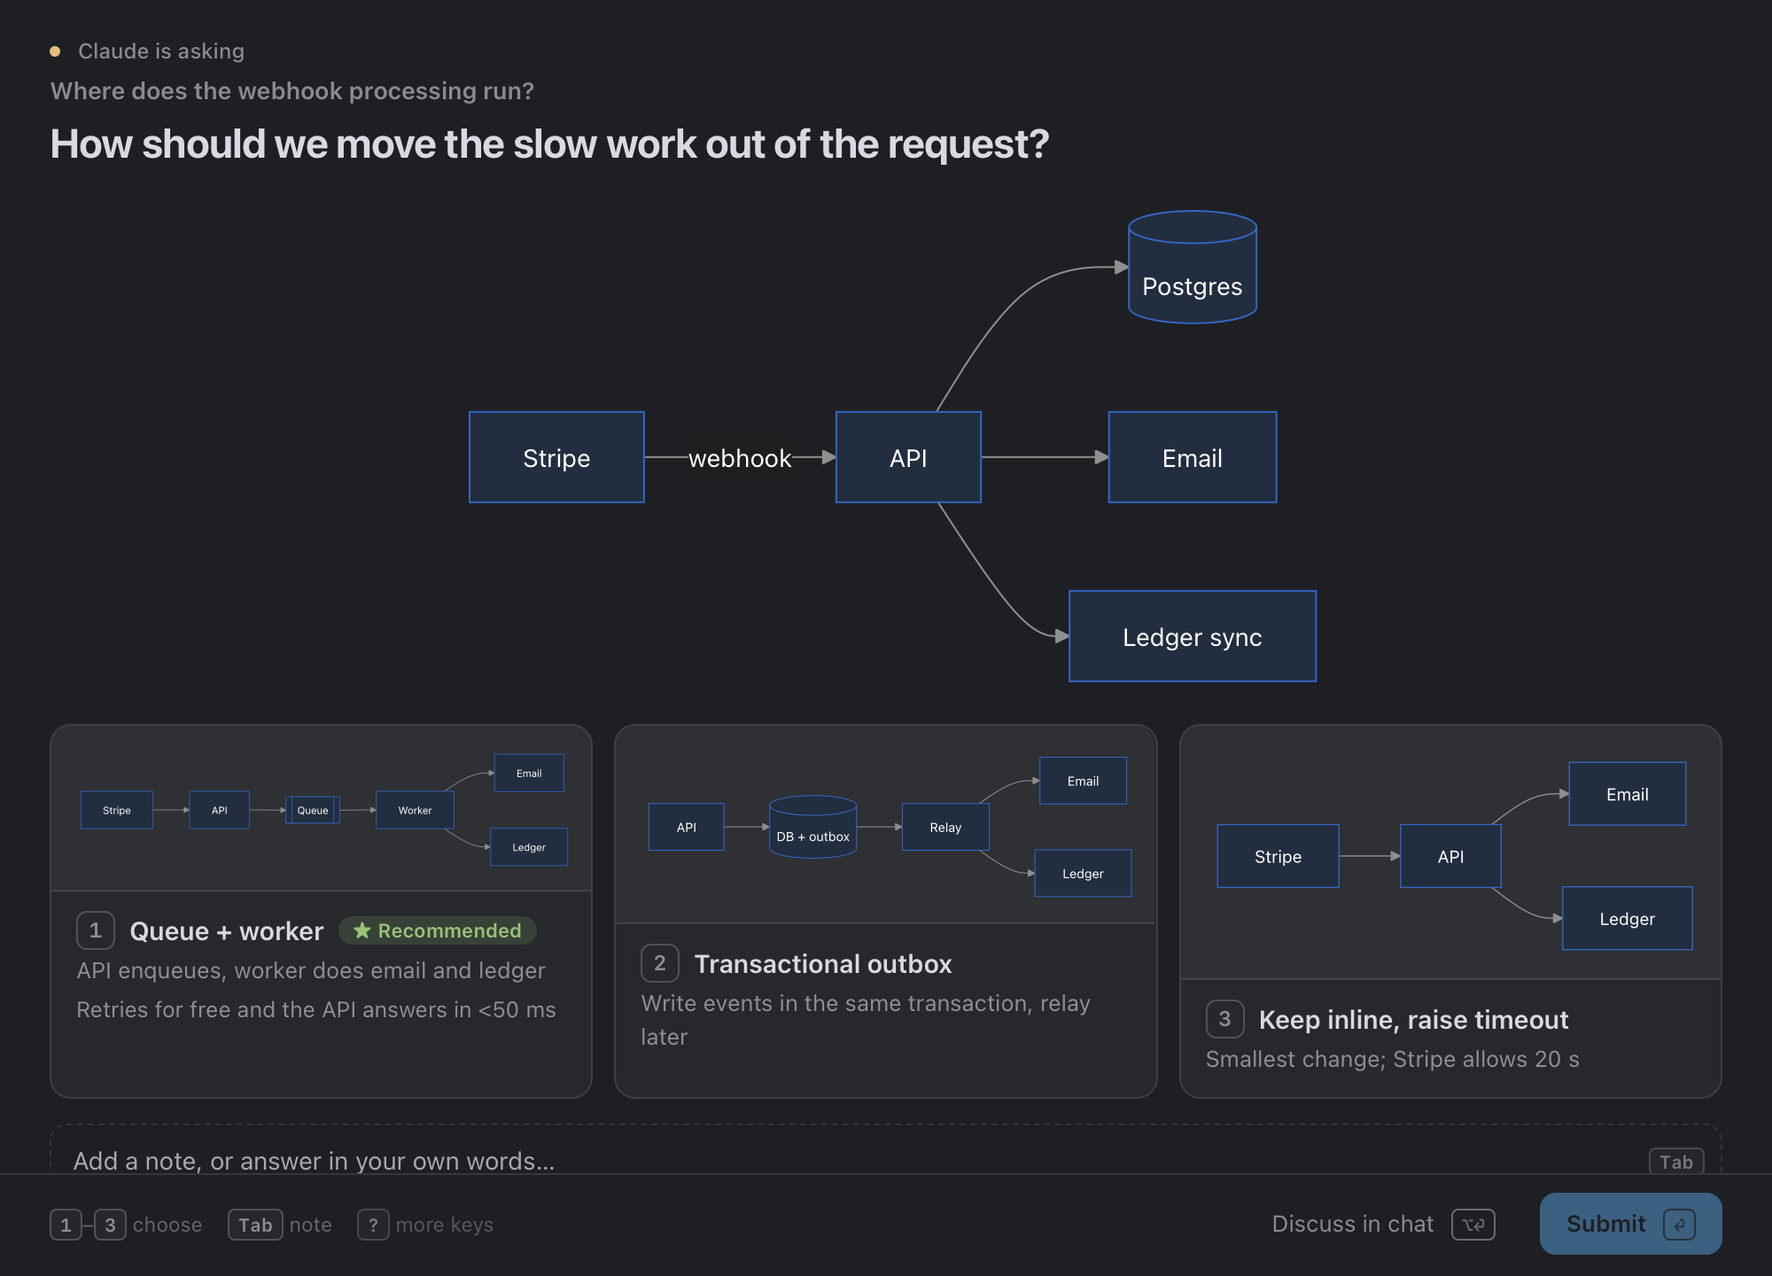
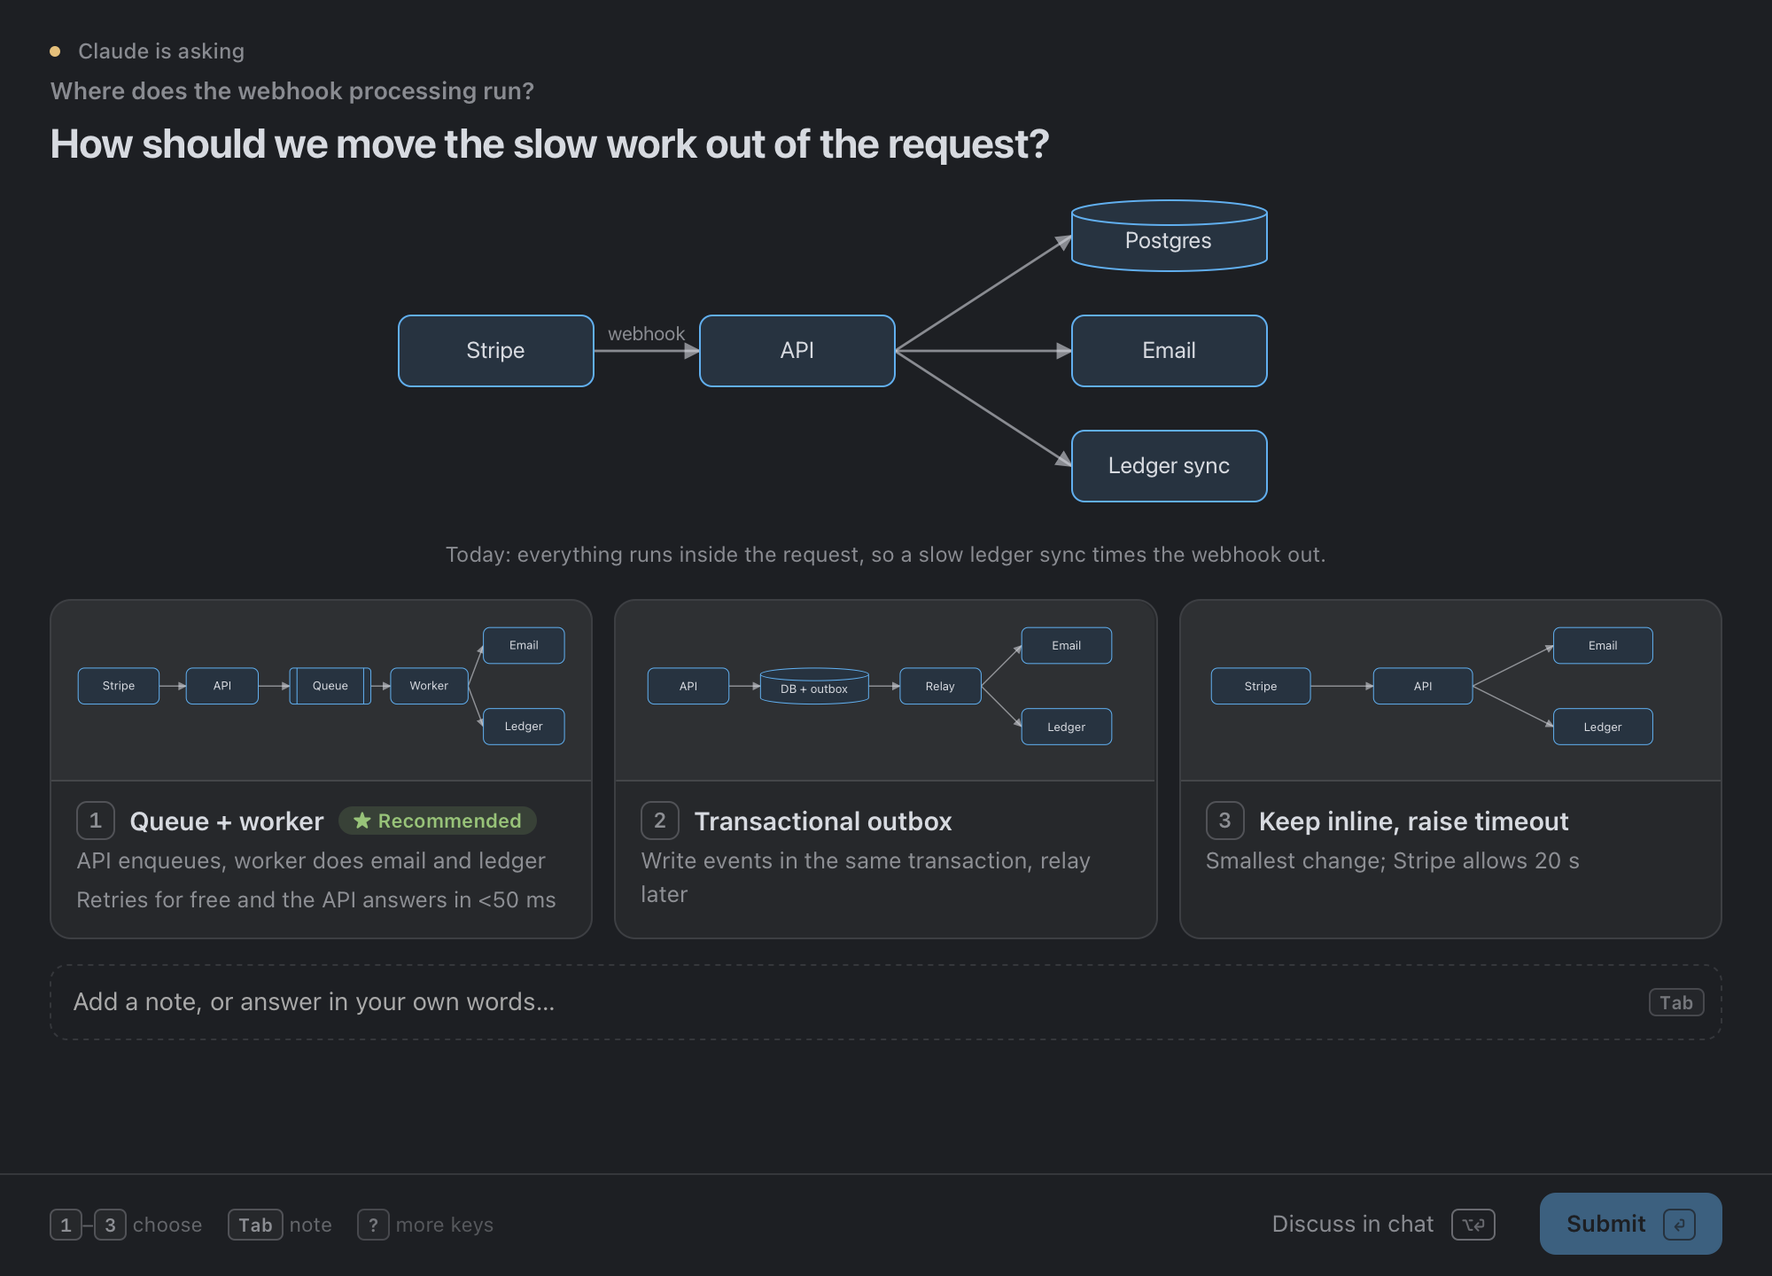
huddle 1.1.0 — diagrams are SVG; no download on first use
- Mermaid is removed from the CLI, the runtime and the styles: no CDN fetch,
  no ~/.cache, no network needed for any page. A spec with a `mermaid` block is
  refused with a pointer to `svg`.
- SKILL.md gains a Diagrams section with a copyable, theme-aware SVG pattern.
- The architecture template and the auth-flow and rollout demos are redrawn as
  inline SVG: flows, sequence diagrams, timelines and branch graphs.
- List options lose a second layer of padding they had by mistake.
- SKILL.md warns that {id} substitution reaches ${id} inside a js preview.
- README screenshots regenerated; version 1.1.0.

diff --git a/plugins/huddle/skills/huddle/runtime/huddle.js b/plugins/huddle/skills/huddle/runtime/huddle.js
@@ -7,15 +7,13 @@
   const KEYS = "123456789";
   const $ = (tag, cls, html) => { const e = document.createElement(tag); if (cls) e.className = cls; if (html != null) e.innerHTML = html; return e; };
   const esc = (s) => String(s == null ? "" : s).replace(/[&<>"']/g, (c) => ({ "&": "&amp;", "<": "&lt;", ">": "&gt;", '"': "&quot;", "'": "&#39;" }[c]));
-  // Resolve a theme variable to a concrete rgb() string (mermaid and SVG attributes cannot take var()/color-mix()).
+  // Resolve a theme variable to a concrete rgb() string (SVG attributes cannot take var()/color-mix()).
   let probe;
   const css = (name) => {
     if (!probe) { probe = document.createElement("span"); probe.style.display = "none"; (document.querySelector(".hd") || document.body).appendChild(probe); }
     probe.style.color = ""; probe.style.color = `var(${name})`;
     return getComputedStyle(probe).color;
   };
-  const rgbOf = (c) => (c.match(/[\d.]+/g) || [0, 0, 0]).slice(0, 3).map(Number);
-  const mix = (a, b, t) => { const x = rgbOf(a), y = rgbOf(b); return "#" + x.map((v, i) => Math.round(v * t + y[i] * (1 - t)).toString(16).padStart(2, "0")).join(""); };
 
   // ---------- markdown (small, safe subset) ----------
   function inline(s) {
@@ -151,8 +149,6 @@
   }
 
   // ---------- blocks ----------
-  let mermaidN = 0;
-  const pendingMermaid = [];
   const blockJS = [];
   function block(b) {
     if (b == null) return $("div");
@@ -160,10 +156,7 @@
     if (Array.isArray(b)) { const d = $("div", "hd-blocks"); b.forEach((x) => d.appendChild(block(x))); d.style.margin = "0"; return d; }
     let el;
     if (b.md != null) el = $("div", "hd-md", md(b.md));
-    else if (b.mermaid != null) {
-      el = $("div", "hd-mermaid"); el.dataset.src = b.mermaid; el.id = "hd-mm-" + mermaidN++;
-      el.appendChild($("pre", "hd-code", esc(b.mermaid))); pendingMermaid.push(el);
-    } else if (b.chart) el = chart(b.title && !b.chart.title ? Object.assign({}, b.chart, { title: b.title }) : b.chart);
+    else if (b.chart) el = chart(b.title && !b.chart.title ? Object.assign({}, b.chart, { title: b.title }) : b.chart);
     else if (b.stats) {
       el = $("div", "hd-stats");
       b.stats.forEach((s) => {
@@ -215,31 +208,11 @@
   }
   function blocks(list) { const d = $("div", "hd-blocks"); (Array.isArray(list) ? list : [list]).forEach((b) => d.appendChild(block(b))); return d; }
 
-  // block() queues js and mermaid work; flush() runs whatever is queued. A controls preview is rebuilt on
-  // every change, so it flushes after each redraw, not only once at startup.
-  let ready = false, mermaidReady = false, mermaidChain = Promise.resolve();
+  // block() queues js work; flush() runs it. A controls preview is rebuilt on every change, so it flushes
+  // after each redraw, not only once at startup.
+  let ready = false;
   function flush() {
     blockJS.splice(0).forEach(([el, code]) => { try { new Function("el", "api", code)(el, api); } catch (e) { el.appendChild($("pre", "hd-err", "js: " + esc(e.message || e))); } });
-    const els = pendingMermaid.splice(0);
-    if (els.length) mermaidChain = mermaidChain.then(() => renderMermaid(els));
-  }
-  async function renderMermaid(els) {
-    if (!window.mermaid) { els.forEach((el) => el.classList.add("err")); return; }
-    if (!mermaidReady) { mermaidReady = true; initMermaid(); }
-    for (const el of els) {
-      try { const { svg } = await window.mermaid.render(el.id + "-svg", el.dataset.src); el.innerHTML = svg; }
-      catch (e) { el.classList.add("err"); el.appendChild($("div", "hd-err", "mermaid: " + esc(e.message || e))); }
-    }
-  }
-  function initMermaid() {
-    const fg = css("--fg"), bg = getComputedStyle(document.body).backgroundColor, acc = css("--accent");
-    const dark = rgbOf(bg).reduce((a, b) => a + b, 0) < 384, hex = (c) => mix(c, c, 1);
-    try {
-      window.mermaid.initialize({ startOnLoad: false, securityLevel: "strict", theme: "base", fontFamily: "-apple-system, system-ui, sans-serif",
-        themeVariables: { darkMode: dark, background: hex(bg), mainBkg: mix(acc, bg, 0.16), primaryColor: mix(acc, bg, 0.16), primaryBorderColor: mix(acc, bg, 0.75), primaryTextColor: hex(fg), nodeTextColor: hex(fg),
-          lineColor: mix(fg, bg, 0.5), textColor: hex(fg), secondaryColor: mix(css("--ok"), bg, 0.16), tertiaryColor: mix(fg, bg, 0.06), clusterBkg: mix(fg, bg, 0.04), clusterBorder: mix(fg, bg, 0.22),
-          edgeLabelBackground: hex(bg), noteBkgColor: mix(css("--warn"), bg, 0.15), noteTextColor: hex(fg), actorBkg: mix(acc, bg, 0.16), actorBorder: mix(acc, bg, 0.75), actorTextColor: hex(fg), signalColor: hex(fg), signalTextColor: hex(fg), fontSize: "14px" } });
-    } catch (e) { /* initialize is best effort */ }
   }
 
   // ---------- questions ----------

diff --git a/plugins/huddle/skills/huddle/runtime/huddle.css b/plugins/huddle/skills/huddle/runtime/huddle.css
@@ -86,9 +86,6 @@ body {
 .hd-table td.num, .hd-table th.num { text-align: right; font-variant-numeric: tabular-nums; }
 .hd-img { display: block; max-width: 100%; border-radius: 8px; margin: 0 auto; }
 .hd-missing { display: grid; place-items: center; min-height: 80px; border: 1px dashed var(--line-strong); border-radius: 8px; color: var(--muted); font-size: 12.5px; padding: 10px; text-align: center; }
-.hd-mermaid { display: flex; justify-content: center; overflow: auto; }
-.hd-mermaid svg { max-width: 100%; height: auto; }
-.hd-mermaid.err { justify-content: flex-start; }
 
 /* stat tiles */
 .hd-stats { display: grid; gap: 10px; grid-template-columns: repeat(auto-fit, minmax(140px, 1fr)); }
@@ -181,7 +178,7 @@ body {
 .hd-prev > * { width: 100%; }
 .hd-prev .hd-card { background: transparent; border: 0; padding: 0; }
 .hd-opt.on .hd-prev { background: color-mix(in srgb, var(--accent) 6%, transparent); }
-.hd-body { padding: 10px 14px 12px; }
+.hd-opts.grid .hd-body, .hd-opts.compare .hd-body { padding: 10px 14px 12px; }  /* list rows pad the option itself */
 .hd-opts.grid .hd-opt:not(:has(.hd-prev)) .hd-body, .hd-opts.compare .hd-opt:not(:has(.hd-prev)) .hd-body { padding-top: 12px; }
 .hd-opts.compare .hd-pc { grid-template-columns: 1fr; }
 
@@ -370,3 +367,4 @@ kbd { font: 600 10.5px/1 var(--mono); padding: 2px 5px; border-radius: 4px; bord
 .hd[data-style="terminal"] .hd-btn { border-radius: 4px; font-family: var(--mono); }
 .hd[data-style="terminal"] .hd-rlist { border-radius: 4px; }
 .hd[data-style="terminal"] .hd-chip { border-radius: 3px; font-size: 13px; }
+

diff --git a/plugins/huddle/skills/huddle/scripts/huddle.py b/plugins/huddle/skills/huddle/scripts/huddle.py
@@ -21,7 +21,6 @@ Environment: AGTERMCTL (path to agtermctl), HUDDLE_CONFIG (personal defaults, de
 import argparse
 import base64
 import glob
-import http.client
 import http.server
 import json
 import mimetypes
@@ -33,19 +32,15 @@ import subprocess
 import sys
 import threading
 import time
-import urllib.request
 import webbrowser
 
 HERE = os.path.dirname(os.path.dirname(os.path.realpath(__file__)))
 RUNTIME = os.path.join(HERE, "runtime")
 TEMPLATES = os.path.join(HERE, "templates")
 DEMOS = os.path.join(HERE, "demos")
-CACHE = os.path.expanduser("~/.cache/huddle")
 DEFAULTS = os.path.join(HERE, "defaults.json")
 USER_DEFAULTS = os.path.expanduser(os.environ.get("HUDDLE_CONFIG", "~/.config/huddle/defaults.json"))
 OUTDIR = os.path.join(os.environ.get("TMPDIR", "/tmp"), "huddle")
-MERMAID_URL = "https://cdn.jsdelivr.net/npm/mermaid@11.12.0/dist/mermaid.min.js"
-MERMAID_FILE = os.path.join(CACHE, "mermaid-11.12.0.min.js")
 MAX_IMAGE = 8 * 1024 * 1024
 
 
@@ -90,6 +85,8 @@ def check_spec(spec):
             die(f"question {qid!r} has duplicate option ids (an option without an id is o1, o2, … by position)")
         if not q.get("prompt") and not spec.get("title"):
             die(f"question {qid!r} has no prompt")
+    if find_key(spec, "mermaid"):
+        die("`mermaid` blocks are not supported: draw the diagram as an inline `svg` block (see SKILL.md, Diagrams)")
 
 
 def embed_images(node, base):
@@ -116,28 +113,12 @@ def embed_images(node, base):
             embed_images(v, base)
 
 
-def uses_mermaid(node):
+def find_key(node, key):
     if isinstance(node, dict):
-        return "mermaid" in node or any(uses_mermaid(v) for v in node.values())
+        return key in node or any(find_key(v, key) for v in node.values())
     if isinstance(node, list):
-        return any(uses_mermaid(v) for v in node)
+        return any(find_key(v, key) for v in node)
     return False
-
-
-def mermaid_js():
-    if os.path.isfile(MERMAID_FILE) and os.path.getsize(MERMAID_FILE) > 100_000:
-        with open(MERMAID_FILE, encoding="utf-8") as f:
-            return f.read()
-    try:
-        os.makedirs(CACHE, exist_ok=True)
-        with urllib.request.urlopen(MERMAID_URL, timeout=20) as r:
-            data = r.read().decode("utf-8")
-        with open(MERMAID_FILE, "w", encoding="utf-8") as f:
-            f.write(data)
-        return data
-    except (OSError, UnicodeDecodeError, http.client.HTTPException) as e:  # diagrams fall back to their source text
-        print(f"huddle: mermaid unavailable ({e}); diagrams show as source", file=sys.stderr)
-        return ""
 
 
 def build_html(spec, base):
@@ -146,7 +127,6 @@ def build_html(spec, base):
         with open(os.path.join(RUNTIME, name), encoding="utf-8") as f:
             return f.read()
     css, js = read("huddle.css"), read("huddle.js")
-    mm = mermaid_js() if uses_mermaid(spec) else ""
     data = json.dumps(spec, ensure_ascii=False).replace("</", "<\\/").replace("<!--", "<\\u0021--")
     title = spec.get("title") or (spec.get("questions") or [spec])[0].get("prompt") or "Question"
     esc = lambda s: str(s).replace("&", "&amp;").replace("<", "&lt;").replace(">", "&gt;")
@@ -155,7 +135,6 @@ def build_html(spec, base):
         "<meta name=\"viewport\" content=\"width=device-width,initial-scale=1\">"
         f"<title>{esc(title)[:120]}</title><style>{css}</style></head>"
         f"<body><div id=\"app\"></div><script type=\"application/json\" id=\"hd-spec\">{data}</script>"
-        + (f"<script>{mm}</script>" if mm else "")
         + f"<script>{js}</script></body></html>"
     )
 
@@ -200,7 +179,7 @@ def auto_size(spec):
     """Pick the floating-panel percent from how much the page has to show."""
     qs = spec.get("questions") or [spec]
     blob = json.dumps(spec)
-    visual = any(k in blob for k in ('"preview"', '"mermaid"', '"chart"', '"image"', '"stats"', '"table"'))
+    visual = any(k in blob for k in ('"preview"', '"svg"', '"chart"', '"image"', '"stats"', '"table"'))
     compare = any(q.get("layout") == "compare" for q in qs)
     nopts = max((len(q.get("options") or []) for q in qs), default=0)
     if visual or compare or len(qs) > 2:

diff --git a/plugins/huddle/skills/huddle/SKILL.md b/plugins/huddle/skills/huddle/SKILL.md
@@ -1,12 +1,12 @@
 ---
 name: huddle
-description: Ask the user a question as a rich page in an agterm HTML overlay instead of the built-in AskUserQuestion tool. Standard components cover choices (up to 9 options, grey subtitles, Recommended badges with reasons, pros/cons, details), answers that are visuals (diagrams, charts, images, wireframes, colour/radius/spacing/type samples), sliders with a live preview for values that are a matter of taste (radius, gap, colour, speed, size), several questions in one page with a review of the answers, and a free-text box on every question; context as markdown, mermaid, charts, stat tiles, tables, code and diffs; keyboard throughout; extendable with HTML, SVG and JavaScript for anything specific to the question. The agent writes a small JSON spec (or one `huddle q` line) and gets the answer back as JSON. Use whenever you need a decision or input from the user while running inside agterm (AGTERM_ENABLED=1), and whenever the user says huddle, "ask me visually", "show me the options", or asks for a question with diagrams, charts, pictures or sliders.
+description: Ask the user a question as a rich page in an agterm HTML overlay instead of the built-in AskUserQuestion tool. Standard components cover choices (up to 9 options, grey subtitles, Recommended badges with reasons, pros/cons, details), answers that are visuals (diagrams, charts, images, wireframes, colour/radius/spacing/type samples), sliders with a live preview for values that are a matter of taste (radius, gap, colour, speed, size), several questions in one page with a review of the answers, and a free-text box on every question; context as markdown, SVG diagrams, charts, stat tiles, tables, code and diffs; keyboard throughout; extendable with HTML, SVG and JavaScript for anything specific to the question. The agent writes a small JSON spec (or one `huddle q` line) and gets the answer back as JSON. Use whenever you need a decision or input from the user while running inside agterm (AGTERM_ENABLED=1), and whenever the user says huddle, "ask me visually", "show me the options", or asks for a question with diagrams, charts, pictures or sliders.
 ---
 
 # huddle — ask the user with a page, not a prompt
 
 One command opens the question over **your own** agterm session, waits for the answer, and prints it as
-JSON. The runtime (layout, styles, charts, diagrams, sliders, keyboard) is prebuilt; you describe the
+JSON. The runtime (layout, styles, charts, sliders, keyboard) is prebuilt; you describe the
 question.
 
 ```bash
@@ -144,6 +144,9 @@ under it), `badge` (replaces the "Recommended" word), `tags` (small chips: effor
 - `baseline: true` (or a label string) shows the starting values beside the live one ("Now" | "Yours").
 - `options` with `values` are presets: picking one moves the sliders.
 - Each slider has ↺ to return to its starting value.
+- `{id}` is replaced everywhere in the preview, JavaScript included — and `${id}` in a template literal
+  contains `{id}`. In a `js` preview, read each value once into a variable with a different name
+  (`const R = {radius};`) and use that.
 - Optional linking: a `preview` may read earlier answers on the same page — `{@qid}` is the option id
   chosen on question `qid` (comma-joined for multi), `{@qid.label}` its label, `{@qid.ctl}` a slider value
   from another controls question. Use it when the fine-tuning should apply to what was just picked
@@ -158,7 +161,7 @@ Used in `context`, `body`, `detail`, `preview`. A plain string is markdown (`**b
 | Block | Shape |
 | --- | --- |
 | markdown | `"text"` or `{"md": "text"}` |
-| diagram | `{"mermaid": "flowchart LR\n A --> B"}` — any mermaid type (flowchart, sequence, class, state, ER, gantt, gitGraph). In labels avoid `#` (starts an entity: `#1` truncates the line) and `%` (comment marker in gantt); add `todayMarker off` to a gantt |
+| diagram | `{"svg": "<svg …>"}` — see [Diagrams](#diagrams) |
 | chart | `{"chart": {"type": "bar"\|"line"\|"area"\|"hbar"\|"donut"\|"pie", "labels": [...], "series": [{"name", "values", "color"}], "unit": " ms"}}` — `values` alone for one series. Optional: `title`, `highlight` (index or label; not donut/pie), `marks: [{"value", "label"}]` (threshold lines), `min`, `max`, `height`; donut/pie `colors`, `center`, `size`; hbar `labelWidth` |
 | stat tiles | `{"stats": [{"label", "value", "delta", "good": true\|false\|null, "sub"}]}` |
 | image | `{"image": "/abs/or/relative.png", "height": 160, "fit": "cover", "alt": "…"}` — local files are embedded (up to 8 MB); a missing one shows its alt text |
@@ -168,6 +171,29 @@ Used in `context`, `body`, `detail`, `preview`. A plain string is markdown (`**b
 | design samples | `{"radius": 12}`, `{"gap": 16, "items": 4, "direction": "column"}`, `{"colors": ["#hex", {"name", "value"}]}`, `{"type": {"family", "size", "weight", "tracking", "text"}}`, `{"style": {css}, "text": "…"}` |
 | layout | `{"row": [block, block]}` side by side; a list of blocks stacks |
 | svg / html / js | see [Extending](#extending) |
+
+## Diagrams
+
+There is no diagram engine: draw the diagram as an inline `svg` block — boxes, arrows, a timeline, a
+sequence, a branch graph. It needs no network and renders exactly as written. Keep it small and use the
+theme variables in `style=` (SVG attributes cannot read `var()`), so it matches the terminal theme:
+
+```html
+<svg viewBox="0 0 420 90" width="420" style="max-width:100%;height:auto">
+  <defs><marker id="ar" viewBox="0 0 10 10" refX="9" refY="5" markerWidth="7" markerHeight="7" orient="auto">
+    <path d="M0,0 L10,5 L0,10 z" style="fill:var(--muted)"/></marker></defs>
+  <rect x="10" y="25" width="110" height="40" rx="7" style="fill:color-mix(in srgb,var(--accent) 14%,var(--bg));stroke:var(--accent)"/>
+  <text x="65" y="50" text-anchor="middle" style="fill:var(--fg);font:13px -apple-system,sans-serif">API</text>
+  <path d="M120,45 L298,45" style="stroke:var(--muted);stroke-width:1.4" marker-end="url(#ar)"/>
+  <text x="210" y="38" text-anchor="middle" style="fill:var(--muted);font:11px -apple-system,sans-serif">enqueue</text>
+  <rect x="300" y="25" width="110" height="40" rx="7" style="fill:color-mix(in srgb,var(--accent) 14%,var(--bg));stroke:var(--accent)"/>
+  <text x="355" y="50" text-anchor="middle" style="fill:var(--fg);font:13px -apple-system,sans-serif">Worker</text>
+</svg>
+```
+
+`templates/architecture.json` (flows), `demos/auth-flow.json` (sequence diagrams) and
+`demos/rollout.json` (timelines, branch graphs) are larger patterns to copy. Inside an option's
+`preview` the card is small: leave edge labels out and let the option's text carry them.
 
 ## Extending
 
@@ -221,7 +247,6 @@ so don't override them unless a question needs it. Per call, a flag or the same 
   the same way, and closing the tab counts as dismissed. That path lives only as long as the command:
   no `--no-wait`, and a timed-out browser question cannot be resumed. `--browser` forces it inside agterm.
 - `AGTERMCTL` points at `agtermctl` when it is not on `PATH`.
-- Mermaid is downloaded once to `~/.cache/huddle/` on first use; offline, diagrams show as source.
 - Generated pages land in `$TMPDIR/huddle/` and are pruned after a day. `$H render spec.json -o out.html`
   builds one without opening it (for checking a spec).
 

diff --git a/CHANGELOG.md b/CHANGELOG.md
@@ -1,5 +1,21 @@
 # Changelog
 
+## huddle 1.1.0
+
+### Diagrams are SVG; no download on first use
+
+Mermaid is gone. It was fetched from a CDN the first time a page had a diagram —
+2.7 MB, so the first diagram failed offline — and it was the only thing huddle
+needed from the network. A diagram is now an inline `svg` block the agent writes;
+`SKILL.md` has a copyable pattern, and the `architecture` template and the
+`auth-flow` and `rollout` demos are redrawn as SVG flows, sequence diagrams,
+timelines and branch graphs. A spec that still has a `mermaid` block is refused
+with a message saying to draw it as SVG.
+
+Also: options in a list layout lost a second layer of padding they had by
+mistake, so list questions are shorter; and `SKILL.md` warns that `{id}`
+substitution reaches `${id}` inside a `js` preview.
+
 ## huddle 1.0.0
 
 ### Ask with a page, not a prompt

diff --git a/plugins/huddle/README.md b/plugins/huddle/README.md
@@ -21,10 +21,10 @@ not designed.
 
 Four things it does differently:
 
-**The answer can be a picture.** An option can carry a preview — a mermaid
-diagram, a wireframe, a radius, spacing or colour sample, a chart — and the
-evidence goes under the question: diagrams, charts, stat tiles, tables, code,
-diffs.
+**The answer can be a picture.** An option can carry a preview — an SVG diagram,
+a wireframe, a radius, spacing or colour sample, a chart — and the evidence goes
+under the question: diagrams, charts, stat tiles, tables, code, diffs. Nothing is
+fetched from the network; a diagram is plain SVG the agent writes.
 
 ![Options that are diagrams](../../docs/huddle/architecture.png)
 
